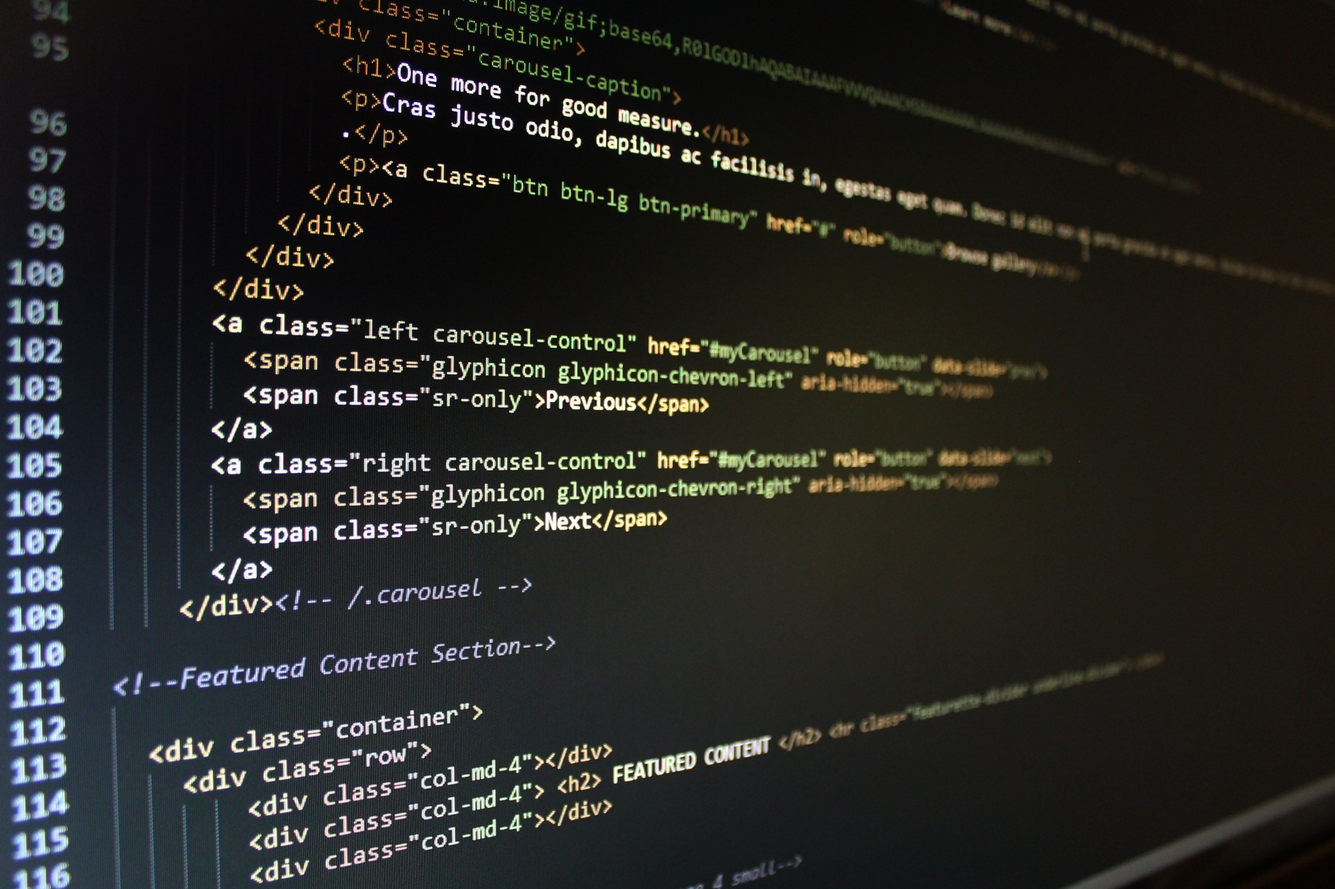
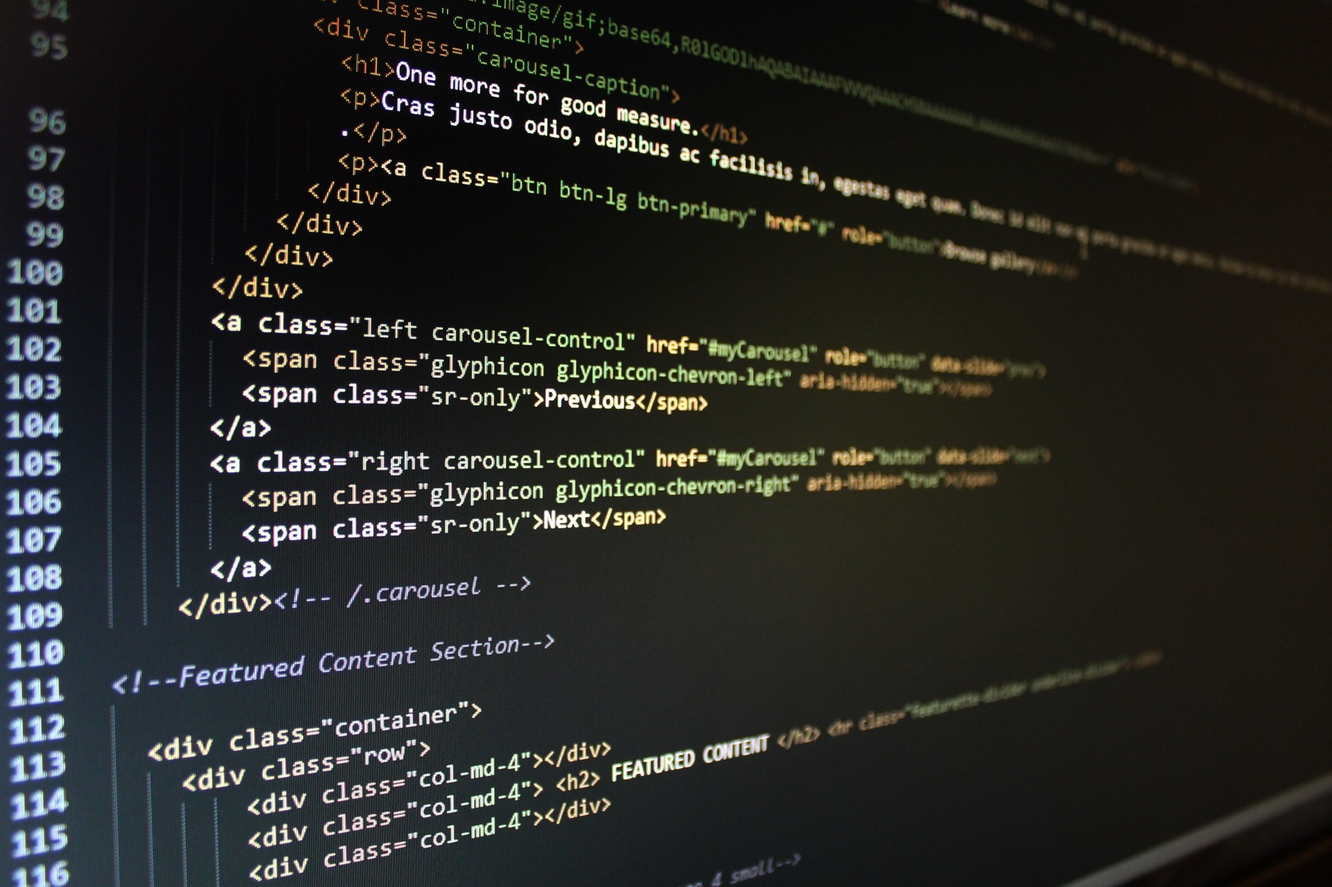
update image ratio

diff --git a/index.html b/index.html
@@ -132,7 +132,7 @@
                     <p class="item_body">An example of my Object-Oriented Programming experience with Python</p>
                 </div>
             </a>
-            <a href="https://github.com/ericzacharia/JackCompiler" class="portfolio__item">
+            <a href="https://github.com/ericzacharia/Compiler_Nand2Tetris" class="portfolio__item">
                 <img src="img/projects/compiler.png" alt="A compiler graphic" class="portfolio__img">
                 <div class="portfolio__text">
                     <h3 class="item__title">Compiler for the Jack Programming Language</h3>
@@ -142,7 +142,7 @@
             <a class="portfolio__item">
                 <img src="img/projects/rentvsbuy.png" alt="picture of Buy vs Rent spreadsheet" class="portfolio__img">
                 <div class="portfolio__text">
-                    <h3 class="item__title">Buy vs Rent Calculator</h3>
+                    <h3 class="item__title">Buy vs Rent Calculator (no link)</h3>
                     <p class="item_body">A spreadsheet that helps you decide whther to buy or rent a home in your area</p>
                 </div>
             </a>
